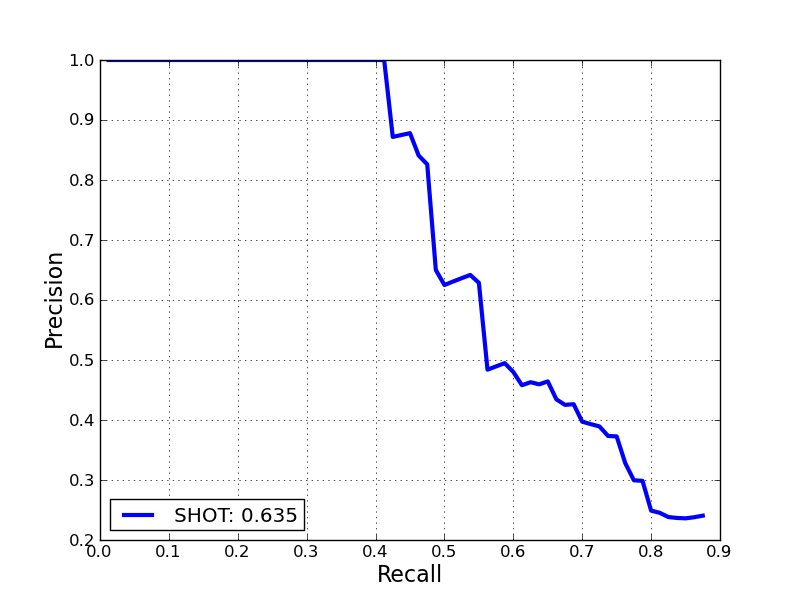
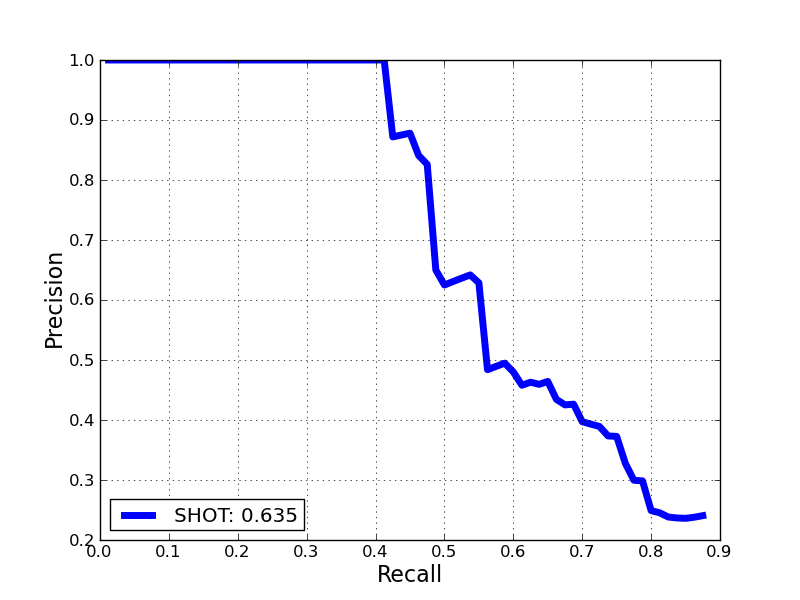
fixed the avg rank as well

diff --git a/plotting/main.py b/plotting/main.py
@@ -39,7 +39,7 @@ class EvalSet:
     for i,e in enumerate(evals):
       label = "%s: %.3f"%(e.nice_name,e.ap)
       lstyle = linestyles[mod(i,len(linestyles))]
-      plot(e.recall,e.precision,lstyle,label=label,linewidth=3,color=colors[i])
+      plot(e.recall,e.precision,lstyle,label=label,linewidth=5,color=colors[i])
     legend(loc='lower left')
     xlabel('Recall',size=16)
     ylabel('Precision',size=16)
@@ -54,6 +54,7 @@ class EvalSet:
     print("  Accuracy: %s"%e.accuracy)
     print("  AP: %s"%e.ap)
     print("  Average rank: %s"%e.avg_rank)
+    print("  Average rank inferred: %s"%e.avg_rank_inferred)
     print("  AUCR: %s"%e.auh)
     print("  AUCR inferred: %s"%e.auh_inferred)
     pprint(e.time)
@@ -253,7 +254,7 @@ class EvalSet:
       print_with_min = lambda numbers: ' & '.join(["\\bf %.2f"%x if x==min(numbers) else "%.2f"%x for x in numbers])
       accuracies = [100*e.accuracy for e in evals]
       aps = [e.ap for e in evals]
-      avg_ranks = [e.avg_rank for e in evals]
+      avg_ranks = [e.avg_rank_inferred for e in evals]
       auhs = [e.auh_inferred for e in evals]
       table = '\n'.join([
         '\\begin{tabular}{ | l || %s | }'%' | '.join(['c' for e in evals]),

diff --git a/plotting/evaluation.py b/plotting/evaluation.py
@@ -44,6 +44,7 @@ class Evaluation:
         self.num_trials = len(self.trials)
         self.counts = self.rank_histogram_data()
         self.auh_inferred = sum([8,7,6,5,4] * self.counts)/640.
+        self.avg_rank_inferred = sum([1,2,3,4,5] * (self.counts/80.))
       
       # Overview output
       if l.find('[overview]') > -1:

diff --git a/writeups/results/PSB_PFH-FPFH-SHOT-SPIN_IMAGE_table.tex b/writeups/results/PSB_PFH-FPFH-SHOT-SPIN_IMAGE_table.tex
@@ -4,7 +4,7 @@ Metric & PFH & FPFH & SHOT & Spin \\
 \hline
  \% Correct & 86.25 & \bf 87.50 & 73.75 & 49.35 \\
 AP & 0.85 & \bf 0.86 & 0.64 & 0.31 \\
-Avg. Rank & 2.25 & \bf 2.16 & 2.30 & 3.96 \\
+Avg. Rank & 2.23 & \bf 2.16 & 2.23 & 3.45 \\
 AUCR & 0.85 & \bf 0.85 & 0.85 & 0.65 \\
 \hline
 \end{tabular}

diff --git a/writeups/results/WGDB_PFH-FPFH-SHOT-SPIN_IMAGE_table.tex b/writeups/results/WGDB_PFH-FPFH-SHOT-SPIN_IMAGE_table.tex
@@ -4,7 +4,7 @@ Metric & PFH & FPFH & SHOT & Spin \\
 \hline
  \% Correct & 41.25 & \bf 81.25 & 71.25 & 28.21 \\
 AP & 0.26 & \bf 0.75 & 0.58 & 0.20 \\
-Avg. Rank & 4.26 & 2.58 & 2.56 & \bf 1.86 \\
+Avg. Rank & 3.70 & 2.39 & \bf 2.33 & 3.39 \\
 AUCR & 0.66 & 0.83 & \bf 0.83 & 0.67 \\
 \hline
 \end{tabular}
